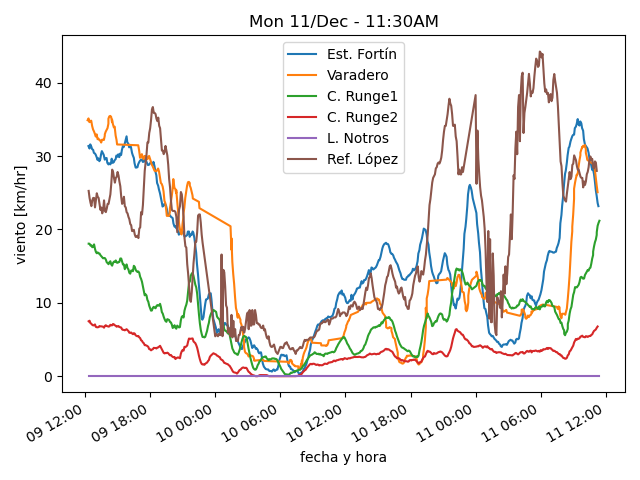
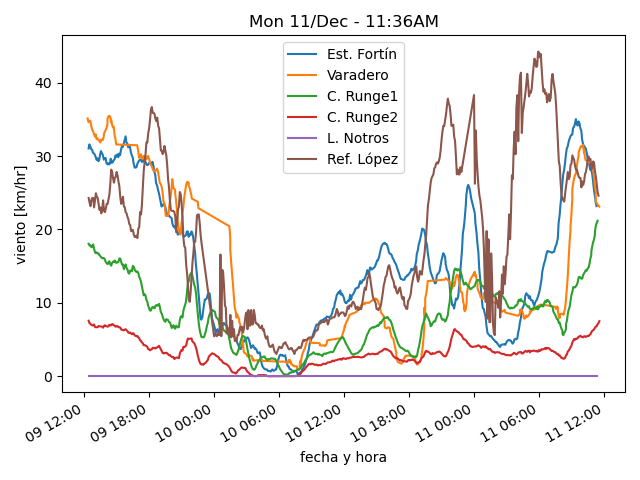
actualiza datos

diff --git a/estaciones/estacion4.html b/estaciones/estacion4.html
@@ -18,32 +18,32 @@
     </tr>
     <tr>
      <td class="stats_data">
-      11:14AM
+      11:34AM
      </td>
     </tr>
     <tr>
      <td class="stats_data">
-      16.2
+      16.1
      </td>
     </tr>
     <tr>
      <td class="stats_data">
-      8.3
+      8.1
      </td>
     </tr>
     <tr>
      <td class="stats_data">
-      59.5
+      59.0
      </td>
     </tr>
     <tr>
      <td class="stats_data">
-      1009.52
+      1009.92
      </td>
     </tr>
     <tr>
      <td class="stats_data">
-      5.2/7.9 SW
+      5.0/8.2 W
      </td>
     </tr>
     <tr>
@@ -53,12 +53,12 @@
     </tr>
     <tr>
      <td class="stats_data">
-      8.0
+      10.0
      </td>
     </tr>
     <tr>
      <td class="stats_data">
-      862.1
+      1099.0
      </td>
     </tr>
    </tbody>

diff --git a/estaciones/estacion2.html b/estaciones/estacion2.html
@@ -18,7 +18,7 @@
     </tr>
     <tr>
      <td class="stats_data">
-      11:14AM
+      11:34AM
      </td>
     </tr>
     <tr>
@@ -28,22 +28,22 @@
     </tr>
     <tr>
      <td class="stats_data">
-      9.3
+      8.6
      </td>
     </tr>
     <tr>
      <td class="stats_data">
-      73.1
+      70.0
      </td>
     </tr>
     <tr>
      <td class="stats_data">
-      1001.42
+      1001.52
      </td>
     </tr>
     <tr>
      <td class="stats_data">
-      16.7/19.8 NW
+      22.1/26.9 NNW
      </td>
     </tr>
     <tr>
@@ -53,12 +53,12 @@
     </tr>
     <tr>
      <td class="stats_data">
-      7.0
+      11.0
      </td>
     </tr>
     <tr>
      <td class="stats_data">
-      798.1
+      1134.8
      </td>
     </tr>
    </tbody>

diff --git a/estaciones/estacion6.html b/estaciones/estacion6.html
@@ -18,12 +18,12 @@
     </tr>
     <tr>
      <td class="stats_data">
-      11:10AM
+      11:30AM
      </td>
     </tr>
     <tr>
      <td class="stats_data">
-      6.8
+      6.7
      </td>
     </tr>
     <tr>
@@ -33,17 +33,17 @@
     </tr>
     <tr>
      <td class="stats_data">
-      76.0
+      77.0
      </td>
     </tr>
     <tr>
      <td class="stats_data">
-      1004.57
+      1004.74
      </td>
     </tr>
     <tr>
      <td class="stats_data">
-      11.3/20.9 WSW
+      6.4/17.7 E
      </td>
     </tr>
     <tr>
@@ -58,7 +58,7 @@
     </tr>
     <tr>
      <td class="stats_data">
-      901.0
+      895.0
      </td>
     </tr>
    </tbody>
